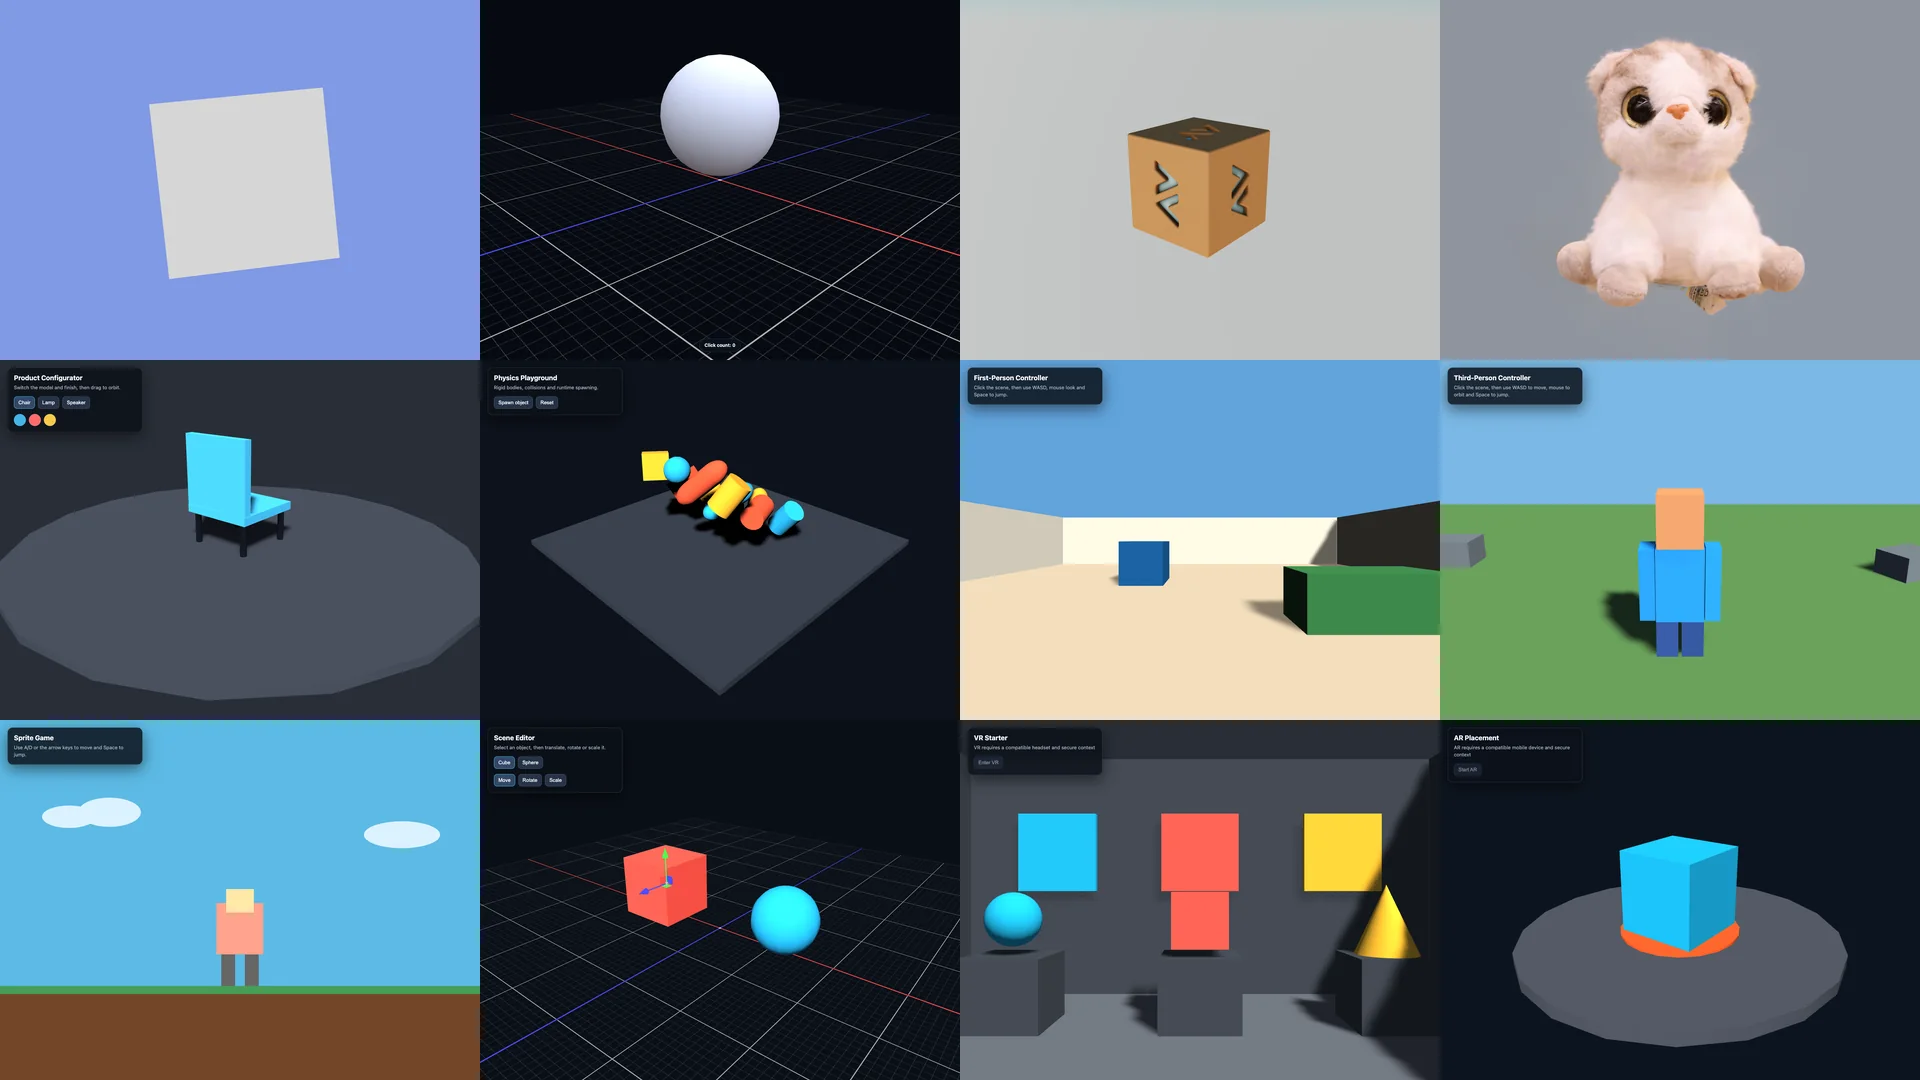
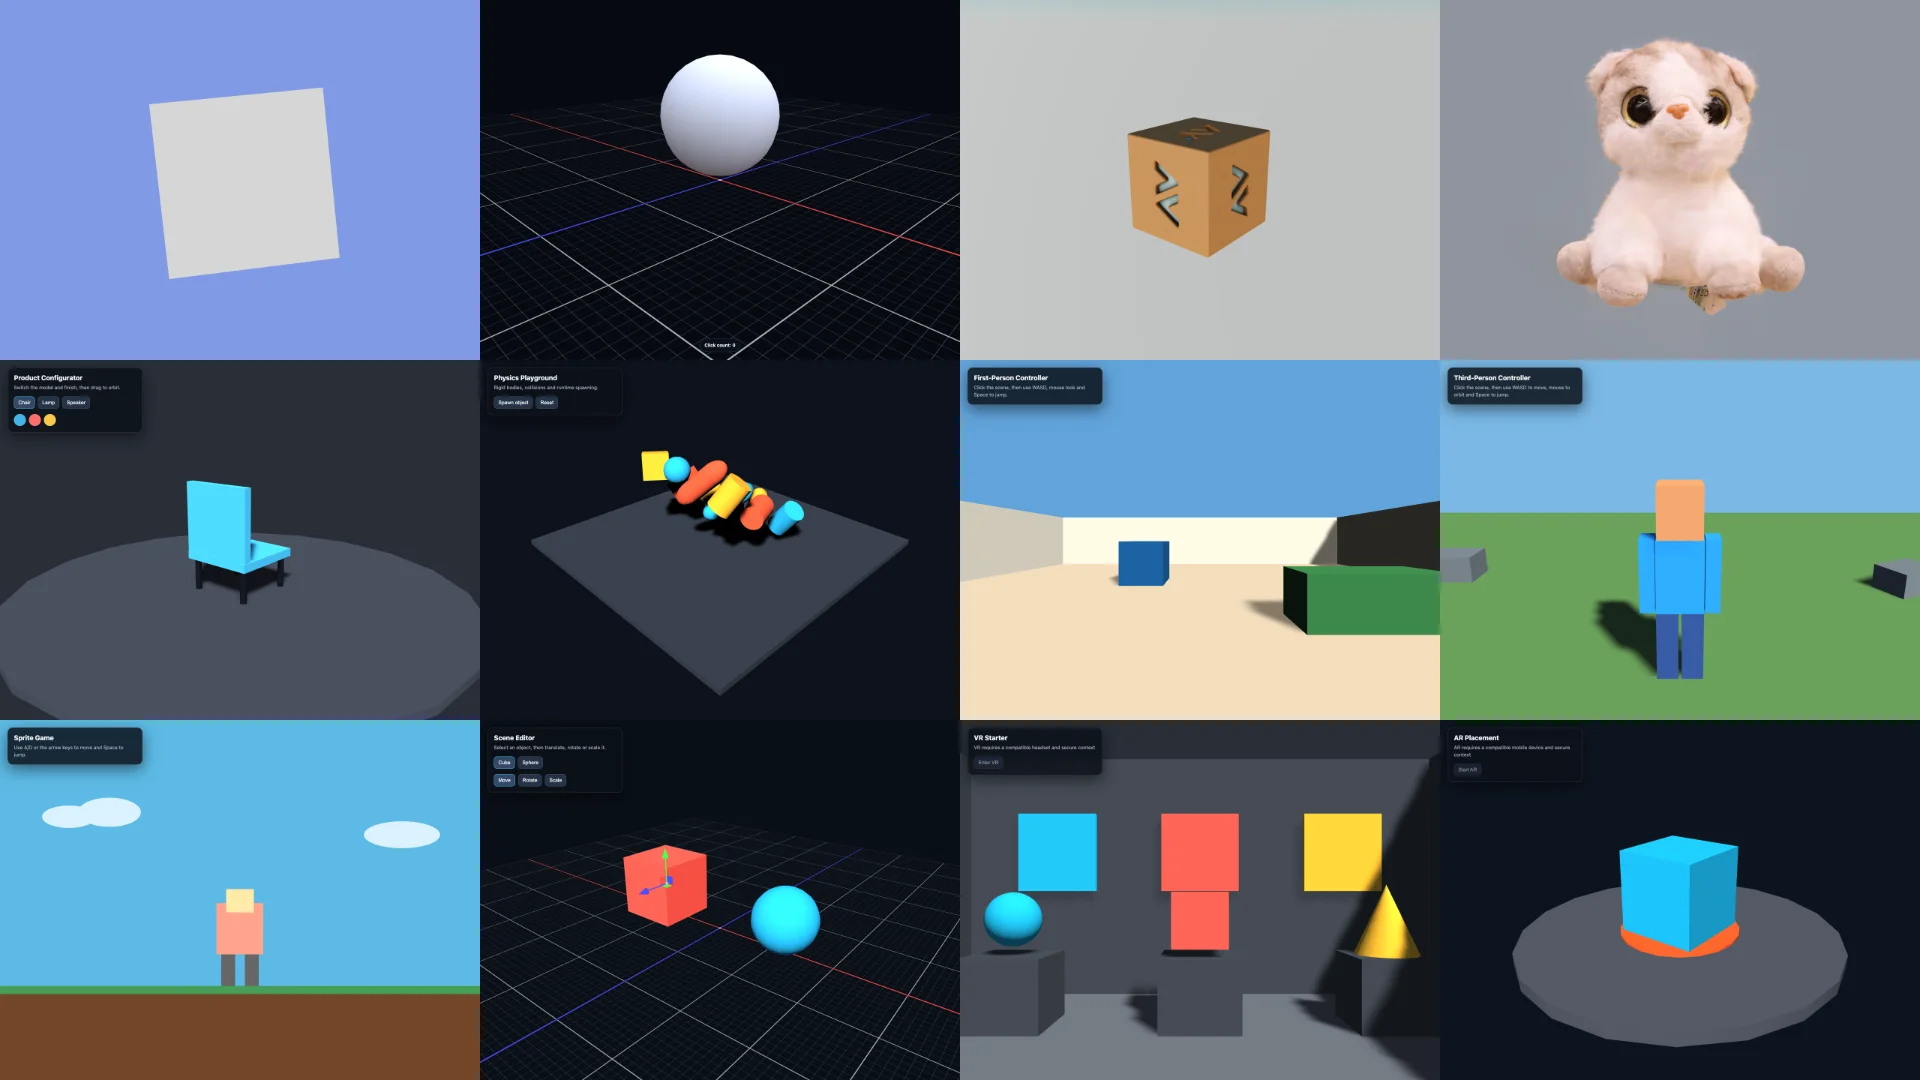
fix: correct starter scene behavior

diff --git a/templates/web-components/third-person-controller/index.html b/templates/web-components/third-person-controller/index.html
@@ -47,28 +47,40 @@
                 <pc-entity position="3.8 0.28 3.6" rotation="0 75 0" scale="0.9 0.5 0.7"
                     ><pc-render type="box" material="rock-material"></pc-render
                 ></pc-entity>
-                <pc-entity name="player" position="0 1 0">
-                    <pc-collision type="capsule" radius="0.45" height="1.8"></pc-collision>
+                <pc-entity name="player" position="0 1.1 0">
+                    <pc-collision type="capsule" radius="0.5" height="2.4" linear-offset="0 0.1 0"></pc-collision>
                     <pc-rigidbody type="dynamic" mass="70" angular-factor="0 0 0"></pc-rigidbody>
-                    <pc-entity name="character">
+                    <pc-entity name="character" position="0 0.2 0">
                         <pc-entity name="body" scale="0.56 0.88 0.38"
                             ><pc-render type="box" material="shirt-material"></pc-render
                         ></pc-entity>
                         <pc-entity name="head" position="0 0.76 0" scale="0.52 0.6 0.52"
                             ><pc-render type="box" material="skin-material"></pc-render
                         ></pc-entity>
-                        <pc-entity name="left-arm" position="-0.38 0 0" scale="0.18 0.88 0.32"
-                            ><pc-render type="box" material="shirt-material"></pc-render
-                        ></pc-entity>
-                        <pc-entity name="right-arm" position="0.38 0 0" scale="0.18 0.88 0.32"
-                            ><pc-render type="box" material="shirt-material"></pc-render
-                        ></pc-entity>
-                        <pc-entity name="left-leg" position="-0.15 -0.87 0" scale="0.26 0.86 0.34"
-                            ><pc-render type="box" material="pants-material"></pc-render
-                        ></pc-entity>
-                        <pc-entity name="right-leg" position="0.15 -0.87 0" scale="0.26 0.86 0.34"
-                            ><pc-render type="box" material="pants-material"></pc-render
-                        ></pc-entity>
+                        <pc-entity name="left-arm" position="-0.38 0.44 0">
+                            <pc-entity position="0 -0.44 0" scale="0.18 0.88 0.32"
+                                ><pc-render type="box" material="shirt-material"></pc-render
+                            ></pc-entity>
+                            ></pc-entity
+                        >
+                        <pc-entity name="right-arm" position="0.38 0.44 0">
+                            <pc-entity position="0 -0.44 0" scale="0.18 0.88 0.32"
+                                ><pc-render type="box" material="shirt-material"></pc-render
+                            ></pc-entity>
+                            ></pc-entity
+                        >
+                        <pc-entity name="left-leg" position="-0.15 -0.44 0">
+                            <pc-entity position="0 -0.43 0" scale="0.26 0.86 0.34"
+                                ><pc-render type="box" material="pants-material"></pc-render
+                            ></pc-entity>
+                            ></pc-entity
+                        >
+                        <pc-entity name="right-leg" position="0.15 -0.44 0">
+                            <pc-entity position="0 -0.43 0" scale="0.26 0.86 0.34"
+                                ><pc-render type="box" material="pants-material"></pc-render
+                            ></pc-entity>
+                            ></pc-entity
+                        >
                     </pc-entity>
                 </pc-entity>
             </pc-scene>

diff --git a/templates/react/third-person-controller/src/App.tsx b/templates/react/third-person-controller/src/App.tsx
@@ -52,27 +52,35 @@ function Scene() {
                     <Render type="box" material={rock} />
                 </Entity>
             ))}
-            <Entity name="player" ref={player} position={[0, 1, 0]}>
-                <Collision type="capsule" radius={0.45} height={1.8} />
+            <Entity name="player" ref={player} position={[0, 1.1, 0]}>
+                <Collision type="capsule" radius={0.5} height={2.4} linearOffset={[0, 0.1, 0]} />
                 <RigidBody type="dynamic" mass={70} angularFactor={[0, 0, 0]} />
-                <Entity name="character" ref={model}>
+                <Entity name="character" ref={model} position={[0, 0.2, 0]}>
                     <Entity name="body" scale={[0.56, 0.88, 0.38]}>
                         <Render type="box" material={shirt} />
                     </Entity>
                     <Entity name="head" position={[0, 0.76, 0]} scale={[0.52, 0.6, 0.52]}>
                         <Render type="box" material={skin} />
                     </Entity>
-                    <Entity name="left-arm" position={[-0.38, 0, 0]} scale={[0.18, 0.88, 0.32]}>
-                        <Render type="box" material={shirt} />
+                    <Entity name="left-arm" position={[-0.38, 0.44, 0]}>
+                        <Entity position={[0, -0.44, 0]} scale={[0.18, 0.88, 0.32]}>
+                            <Render type="box" material={shirt} />
+                        </Entity>
                     </Entity>
-                    <Entity name="right-arm" position={[0.38, 0, 0]} scale={[0.18, 0.88, 0.32]}>
-                        <Render type="box" material={shirt} />
+                    <Entity name="right-arm" position={[0.38, 0.44, 0]}>
+                        <Entity position={[0, -0.44, 0]} scale={[0.18, 0.88, 0.32]}>
+                            <Render type="box" material={shirt} />
+                        </Entity>
                     </Entity>
-                    <Entity name="left-leg" position={[-0.15, -0.87, 0]} scale={[0.26, 0.86, 0.34]}>
-                        <Render type="box" material={pants} />
+                    <Entity name="left-leg" position={[-0.15, -0.44, 0]}>
+                        <Entity position={[0, -0.43, 0]} scale={[0.26, 0.86, 0.34]}>
+                            <Render type="box" material={pants} />
+                        </Entity>
                     </Entity>
-                    <Entity name="right-leg" position={[0.15, -0.87, 0]} scale={[0.26, 0.86, 0.34]}>
-                        <Render type="box" material={pants} />
+                    <Entity name="right-leg" position={[0.15, -0.44, 0]}>
+                        <Entity position={[0, -0.43, 0]} scale={[0.26, 0.86, 0.34]}>
+                            <Render type="box" material={pants} />
+                        </Entity>
                     </Entity>
                 </Entity>
             </Entity>

diff --git a/templates/engine/third-person-controller/src/main.ts b/templates/engine/third-person-controller/src/main.ts
@@ -84,8 +84,13 @@ for (const [i, position] of [
 }
 
 const player = new Entity('player');
-player.setPosition(0, 1, 0);
-player.addComponent('collision', { type: 'capsule', radius: 0.45, height: 1.8 });
+player.setPosition(0, 1.1, 0);
+player.addComponent('collision', {
+    type: 'capsule',
+    radius: 0.5,
+    height: 2.4,
+    linearOffset: new Vec3(0, 0.1, 0)
+});
 player.addComponent('rigidbody', { type: 'dynamic', mass: 70, angularFactor: Vec3.ZERO });
 app.root.addChild(player);
 
@@ -100,7 +105,9 @@ pants.diffuse = new Color(0.18, 0.29, 0.52);
 pants.update();
 
 const model = new Entity('character');
+model.setLocalPosition(0, 0.2, 0);
 const part = (
+    parent: Entity,
     name: string,
     position: [number, number, number],
     scale: [number, number, number],
@@ -110,14 +117,26 @@ const part = (
     entity.addComponent('render', { type: 'box', material });
     entity.setLocalPosition(...position);
     entity.setLocalScale(...scale);
-    model.addChild(entity);
+    parent.addChild(entity);
 };
-part('body', [0, 0, 0], [0.56, 0.88, 0.38], shirt);
-part('head', [0, 0.76, 0], [0.52, 0.6, 0.52], skin);
-part('left-arm', [-0.38, 0, 0], [0.18, 0.88, 0.32], shirt);
-part('right-arm', [0.38, 0, 0], [0.18, 0.88, 0.32], shirt);
-part('left-leg', [-0.15, -0.87, 0], [0.26, 0.86, 0.34], pants);
-part('right-leg', [0.15, -0.87, 0], [0.26, 0.86, 0.34], pants);
+const limb = (
+    name: string,
+    position: [number, number, number],
+    offset: number,
+    scale: [number, number, number],
+    material: StandardMaterial
+) => {
+    const joint = new Entity(name);
+    joint.setLocalPosition(...position);
+    model.addChild(joint);
+    part(joint, `${name}-mesh`, [0, offset, 0], scale, material);
+};
+part(model, 'body', [0, 0, 0], [0.56, 0.88, 0.38], shirt);
+part(model, 'head', [0, 0.76, 0], [0.52, 0.6, 0.52], skin);
+limb('left-arm', [-0.38, 0.44, 0], -0.44, [0.18, 0.88, 0.32], shirt);
+limb('right-arm', [0.38, 0.44, 0], -0.44, [0.18, 0.88, 0.32], shirt);
+limb('left-leg', [-0.15, -0.44, 0], -0.43, [0.26, 0.86, 0.34], pants);
+limb('right-leg', [0.15, -0.44, 0], -0.43, [0.26, 0.86, 0.34], pants);
 player.addChild(model);
 
 const camera = new Entity('camera');

diff --git a/templates/react/product-configurator/src/App.tsx b/templates/react/product-configurator/src/App.tsx
@@ -2,12 +2,15 @@ import { Application, Entity } from '@playcanvas/react';
 import { Camera, Light, Render, Script } from '@playcanvas/react/components';
 import { useMaterial } from '@playcanvas/react/hooks';
 import type { StandardMaterial } from 'playcanvas';
+import { Vec2, Vec3 } from 'playcanvas';
 import { CameraControls } from 'playcanvas/scripts/esm/camera-controls.mjs';
 import { useState } from 'react';
 
 import './starter.css';
 
 const COLORS = ['#41b6e6', '#ff6b6b', '#f7c948'];
+const CAMERA_FOCUS = new Vec3(0, 1.1, 0);
+const CAMERA_PITCH = new Vec2(-85, -4);
 
 function Chair({ material, neutral }: { material: StandardMaterial; neutral: StandardMaterial }) {
     return (
@@ -79,7 +82,14 @@ function Scene({ product, color }: { product: number; color: string }) {
         <>
             <Entity name="camera" position={[6, 3.6, 7]} rotation={[-15, 41, 0]}>
                 <Camera clearColor="#292e38" />
-                <Script script={CameraControls} sceneSize={5.5} />
+                <Script
+                    script={CameraControls}
+                    sceneSize={5.5}
+                    focusPoint={CAMERA_FOCUS}
+                    pitchRange={CAMERA_PITCH}
+                    enableFly={false}
+                    enablePan={false}
+                />
             </Entity>
             <Entity name="light" rotation={[45, 35, 0]}>
                 <Light type="directional" intensity={2.5} castShadows shadowBias={0.2} normalOffsetBias={0.05} />

diff --git a/templates/_shared/third-person-controller/src/controller.ts b/templates/_shared/third-person-controller/src/controller.ts
@@ -1,24 +1,29 @@
 import type { Entity } from 'playcanvas';
-import { math, Script } from 'playcanvas';
+import { Script } from 'playcanvas';
 import { ThirdPersonController } from 'playcanvas/scripts/esm/third-person-controller.mjs';
 
 class RobotAnimation extends Script {
     static scriptName = 'robotAnimation';
 
     time = 0;
+    y = 0;
+
+    initialize() {
+        this.y = this.entity.getLocalPosition().y;
+    }
 
     update(dt: number) {
         const body = this.entity.parent as Entity | null;
         const velocity = body?.rigidbody?.linearVelocity;
         const speed = velocity ? Math.hypot(velocity.x, velocity.z) : 0;
-        this.time += dt * math.clamp(speed * 2, 2, 14);
+        this.time += dt * Math.min(speed * 2, 14);
 
-        const swing = Math.sin(this.time) * math.clamp(speed * 5, 4, 45);
+        const swing = Math.sin(this.time) * Math.min(speed * 5, 45);
         this.entity.findByName('left-arm')?.setLocalEulerAngles(swing, 0, 0);
         this.entity.findByName('right-arm')?.setLocalEulerAngles(-swing, 0, 0);
         this.entity.findByName('left-leg')?.setLocalEulerAngles(-swing, 0, 0);
         this.entity.findByName('right-leg')?.setLocalEulerAngles(swing, 0, 0);
-        this.entity.setLocalPosition(0, Math.abs(Math.sin(this.time)) * Math.min(speed * 0.01, 0.04), 0);
+        this.entity.setLocalPosition(0, this.y + Math.abs(Math.sin(this.time)) * Math.min(speed * 0.01, 0.04), 0);
     }
 }
 

diff --git a/templates/engine/product-configurator/src/main.ts b/templates/engine/product-configurator/src/main.ts
@@ -10,6 +10,8 @@ import {
     RESOLUTION_AUTO,
     ScriptComponentSystem,
     StandardMaterial,
+    Vec2,
+    Vec3,
     createGraphicsDevice
 } from 'playcanvas';
 import { CameraControls } from 'playcanvas/scripts/esm/camera-controls.mjs';
@@ -17,6 +19,8 @@ import { CameraControls } from 'playcanvas/scripts/esm/camera-controls.mjs';
 import './starter.css';
 
 const COLORS = ['#41b6e6', '#ff6b6b', '#f7c948'];
+const CAMERA_FOCUS = new Vec3(0, 1.1, 0);
+const CAMERA_PITCH = new Vec2(-85, -4);
 
 document.body.insertAdjacentHTML(
     'beforeend',
@@ -109,7 +113,15 @@ camera.setPosition(6, 3.6, 7);
 camera.lookAt(0, 1.1, 0);
 camera.addComponent('camera', { clearColor: new Color(0.16, 0.18, 0.22) });
 camera.addComponent('script');
-camera.script!.create(CameraControls, { properties: { sceneSize: 5.5 } });
+camera.script!.create(CameraControls, {
+    properties: {
+        sceneSize: 5.5,
+        focusPoint: CAMERA_FOCUS,
+        pitchRange: CAMERA_PITCH,
+        enableFly: false,
+        enablePan: false
+    }
+});
 app.root.addChild(camera);
 
 const light = new Entity('light');

diff --git a/templates/web-components/product-configurator/src/main.ts b/templates/web-components/product-configurator/src/main.ts
@@ -1,14 +1,25 @@
 import type { EntityElement } from '@playcanvas/web-components';
 import { whenReady } from '@playcanvas/web-components';
+import { Vec2, Vec3 } from 'playcanvas';
 import { CameraControls } from 'playcanvas/scripts/esm/camera-controls.mjs';
 
 import './starter.css';
 
 const COLORS = ['#41b6e6', '#ff6b6b', '#f7c948'];
+const CAMERA_FOCUS = new Vec3(0, 1.1, 0);
+const CAMERA_PITCH = new Vec2(-85, -4);
 
 const camera = (await whenReady('pc-camera')).closestEntity!.entity!;
 camera.addComponent('script');
-camera.script!.create(CameraControls, { properties: { sceneSize: 5.5 } });
+camera.script!.create(CameraControls, {
+    properties: {
+        sceneSize: 5.5,
+        focusPoint: CAMERA_FOCUS,
+        pitchRange: CAMERA_PITCH,
+        enableFly: false,
+        enablePan: false
+    }
+});
 
 const products = Array.from(document.querySelectorAll<EntityElement>('[data-product]'));
 document.querySelectorAll<HTMLButtonElement>('#products button').forEach((button, i) => {

diff --git a/templates/web-components/first-person-controller/index.html b/templates/web-components/first-person-controller/index.html
@@ -41,6 +41,11 @@
                     ><pc-collision type="box" half-extents="9 1.5 0.15"></pc-collision
                     ><pc-rigidbody type="static"></pc-rigidbody
                 ></pc-entity>
+                <pc-entity name="front-wall" position="0 1.5 9" scale="18 3 0.3"
+                    ><pc-render type="box" material="wall-material"></pc-render
+                    ><pc-collision type="box" half-extents="9 1.5 0.15"></pc-collision
+                    ><pc-rigidbody type="static"></pc-rigidbody
+                ></pc-entity>
                 <pc-entity name="left-wall" position="-9 1.5 0" scale="0.3 3 18"
                     ><pc-render type="box" material="wall-material"></pc-render
                     ><pc-collision type="box" half-extents="0.15 1.5 9"></pc-collision

diff --git a/templates/react/first-person-controller/src/App.tsx b/templates/react/first-person-controller/src/App.tsx
@@ -52,6 +52,7 @@ function Scene() {
             </Entity>
             <Block name="floor" position={[0, -0.1, 0]} scale={[18, 0.2, 18]} material={floor} />
             <Block name="back-wall" position={[0, 1.5, -9]} scale={[18, 3, 0.3]} material={wall} />
+            <Block name="front-wall" position={[0, 1.5, 9]} scale={[18, 3, 0.3]} material={wall} />
             <Block name="left-wall" position={[-9, 1.5, 0]} scale={[0.3, 3, 18]} material={wall} />
             <Block name="right-wall" position={[9, 1.5, 0]} scale={[0.3, 3, 18]} material={wall} />
             <Block name="blue-crate" position={[-2, 0.75, -3]} scale={[1.5, 1.5, 1.5]} material={blue} />

diff --git a/templates/web-components/third-person-controller/src/main.ts b/templates/web-components/third-person-controller/src/main.ts
@@ -11,6 +11,6 @@ await Promise.all([
 const [player, camera, model] = await Promise.all([
     whenReady<EntityElement>('pc-entity[name="player"]'),
     whenReady<EntityElement>('pc-entity[name="camera"]'),
-    whenReady<EntityElement>('pc-entity[name="robot"]')
+    whenReady<EntityElement>('pc-entity[name="character"]')
 ]);
 addThirdPersonController(player.entity!, camera.entity!, model.entity!);

diff --git a/templates/engine/first-person-controller/src/main.ts b/templates/engine/first-person-controller/src/main.ts
@@ -86,6 +86,7 @@ const block = (
 
 block('floor', [0, -0.1, 0], [18, 0.2, 18], floor);
 block('back-wall', [0, 1.5, -9], [18, 3, 0.3], wall);
+block('front-wall', [0, 1.5, 9], [18, 3, 0.3], wall);
 block('left-wall', [-9, 1.5, 0], [0.3, 3, 18], wall);
 block('right-wall', [9, 1.5, 0], [0.3, 3, 18], wall);
 block('blue-crate', [-2, 0.75, -3], [1.5, 1.5, 1.5], blue);
